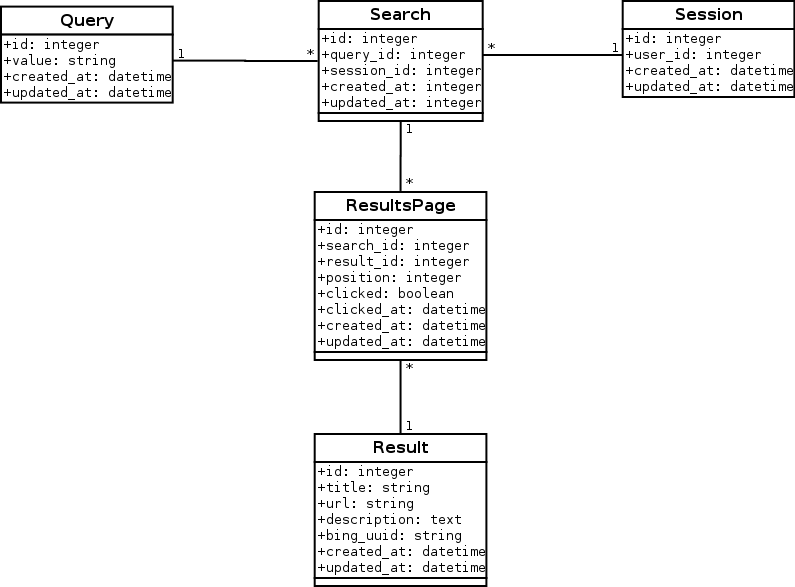
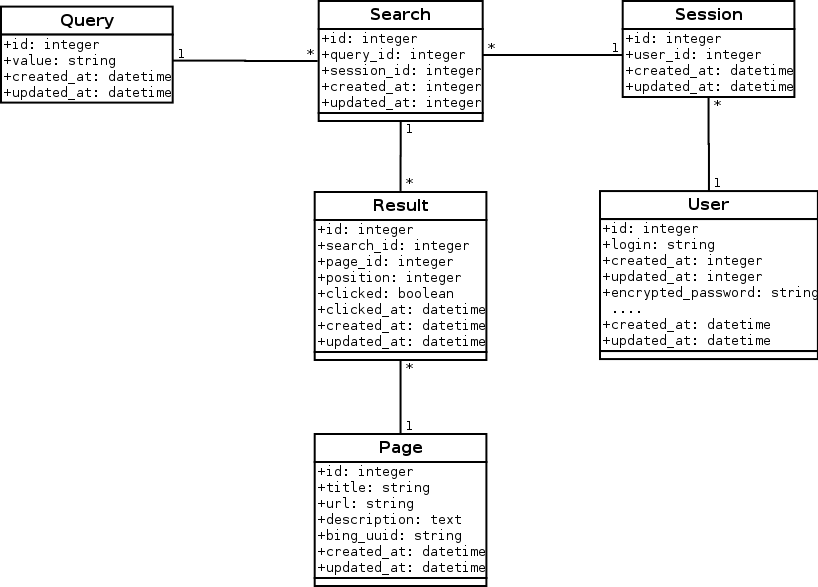
Refactor database model

diff --git a/db/schema.rb b/db/schema.rb
@@ -16,6 +16,17 @@ ActiveRecord::Schema.define(version: 20150307122001) do
   # These are extensions that must be enabled in order to support this database
   enable_extension "plpgsql"
 
+  create_table "pages", force: true do |t|
+    t.string   "title",       null: false
+    t.string   "url",         null: false
+    t.text     "description", null: false
+    t.string   "bing_uuid",   null: false
+    t.datetime "created_at"
+    t.datetime "updated_at"
+  end
+
+  add_index "pages", ["bing_uuid"], name: "index_pages_on_bing_uuid", using: :btree
+
   create_table "queries", force: true do |t|
     t.string   "value",      null: false
     t.datetime "created_at"
@@ -25,19 +36,8 @@ ActiveRecord::Schema.define(version: 20150307122001) do
   add_index "queries", ["value"], name: "index_queries_on_value", unique: true, using: :btree
 
   create_table "results", force: true do |t|
-    t.string   "title",       null: false
-    t.string   "url",         null: false
-    t.text     "description", null: false
-    t.string   "bing_uuid",   null: false
-    t.datetime "created_at"
-    t.datetime "updated_at"
-  end
-
-  add_index "results", ["bing_uuid"], name: "index_results_on_bing_uuid", using: :btree
-
-  create_table "results_pages", force: true do |t|
     t.integer  "search_id",                  null: false
-    t.integer  "result_id",                  null: false
+    t.integer  "page_id",                    null: false
     t.integer  "position",                   null: false
     t.boolean  "clicked",    default: false, null: false
     t.datetime "clicked_at"
@@ -45,7 +45,7 @@ ActiveRecord::Schema.define(version: 20150307122001) do
     t.datetime "updated_at"
   end
 
-  add_index "results_pages", ["search_id", "result_id"], name: "index_results_pages_on_search_id_and_result_id", unique: true, using: :btree
+  add_index "results", ["search_id", "page_id"], name: "index_results_on_search_id_and_page_id", unique: true, using: :btree
 
   create_table "searches", force: true do |t|
     t.integer  "query_id",   null: false

diff --git a/db/migrate/20150307121939_create_results.rb b/db/migrate/20150307121939_create_results.rb
@@ -1,8 +1,8 @@
-class CreateResultsPages < ActiveRecord::Migration
+class CreateResults < ActiveRecord::Migration
   def change
-    create_table :results_pages do |t|
+    create_table :results do |t|
       t.references :search, null: false
-      t.references :result, null: false
+      t.references :page,   null: false
 
       t.integer  :position,   null: false
       t.boolean  :clicked,    null: false, default: false
@@ -11,6 +11,6 @@ class CreateResultsPages < ActiveRecord::Migration
       t.timestamps
     end
 
-    add_index :results_pages, [:search_id, :result_id], unique: true
+    add_index :results, [:search_id, :page_id], unique: true
   end
 end

diff --git a/db/migrate/20150307122001_create_pages.rb b/db/migrate/20150307122001_create_pages.rb
@@ -1,6 +1,6 @@
-class CreateResults < ActiveRecord::Migration
+class CreatePages < ActiveRecord::Migration
   def change
-    create_table :results do |t|
+    create_table :pages do |t|
       t.string :title,       null: false
       t.string :url,         null: false
       t.text   :description, null: false
@@ -9,6 +9,6 @@ class CreateResults < ActiveRecord::Migration
       t.timestamps
     end
 
-    add_index :results, :bing_uuid
+    add_index :pages, :bing_uuid
   end
 end

diff --git a/app/models/session.rb b/app/models/session.rb
@@ -1,3 +1,6 @@
 class Session < ActiveRecord::Base
   belongs_to :user
+
+  has_many :searches
+  has_many :queries, through: :searches
 end

diff --git a/app/models/result.rb b/app/models/result.rb
@@ -1,2 +1,4 @@
 class Result < ActiveRecord::Base
+  belongs_to :search
+  belongs_to :page
 end

diff --git a/app/models/page.rb b/app/models/page.rb
@@ -1,0 +1,2 @@
+class Page < ActiveRecord::Base
+end
